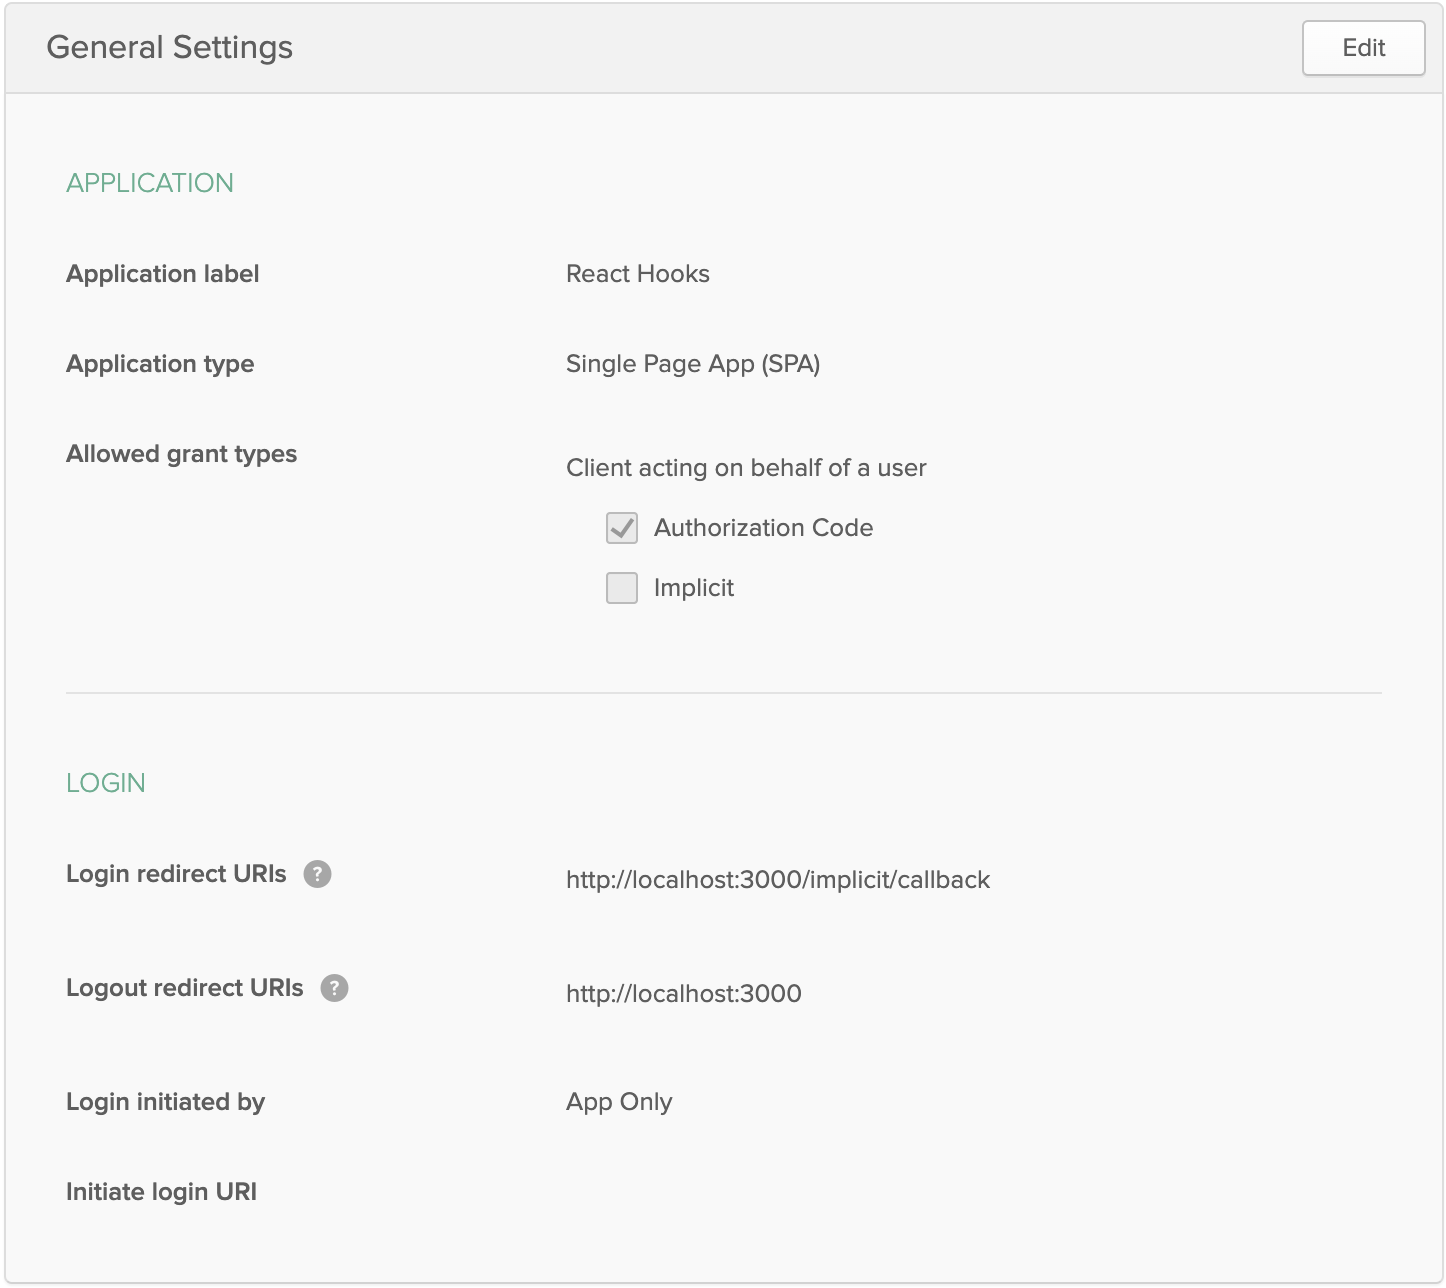
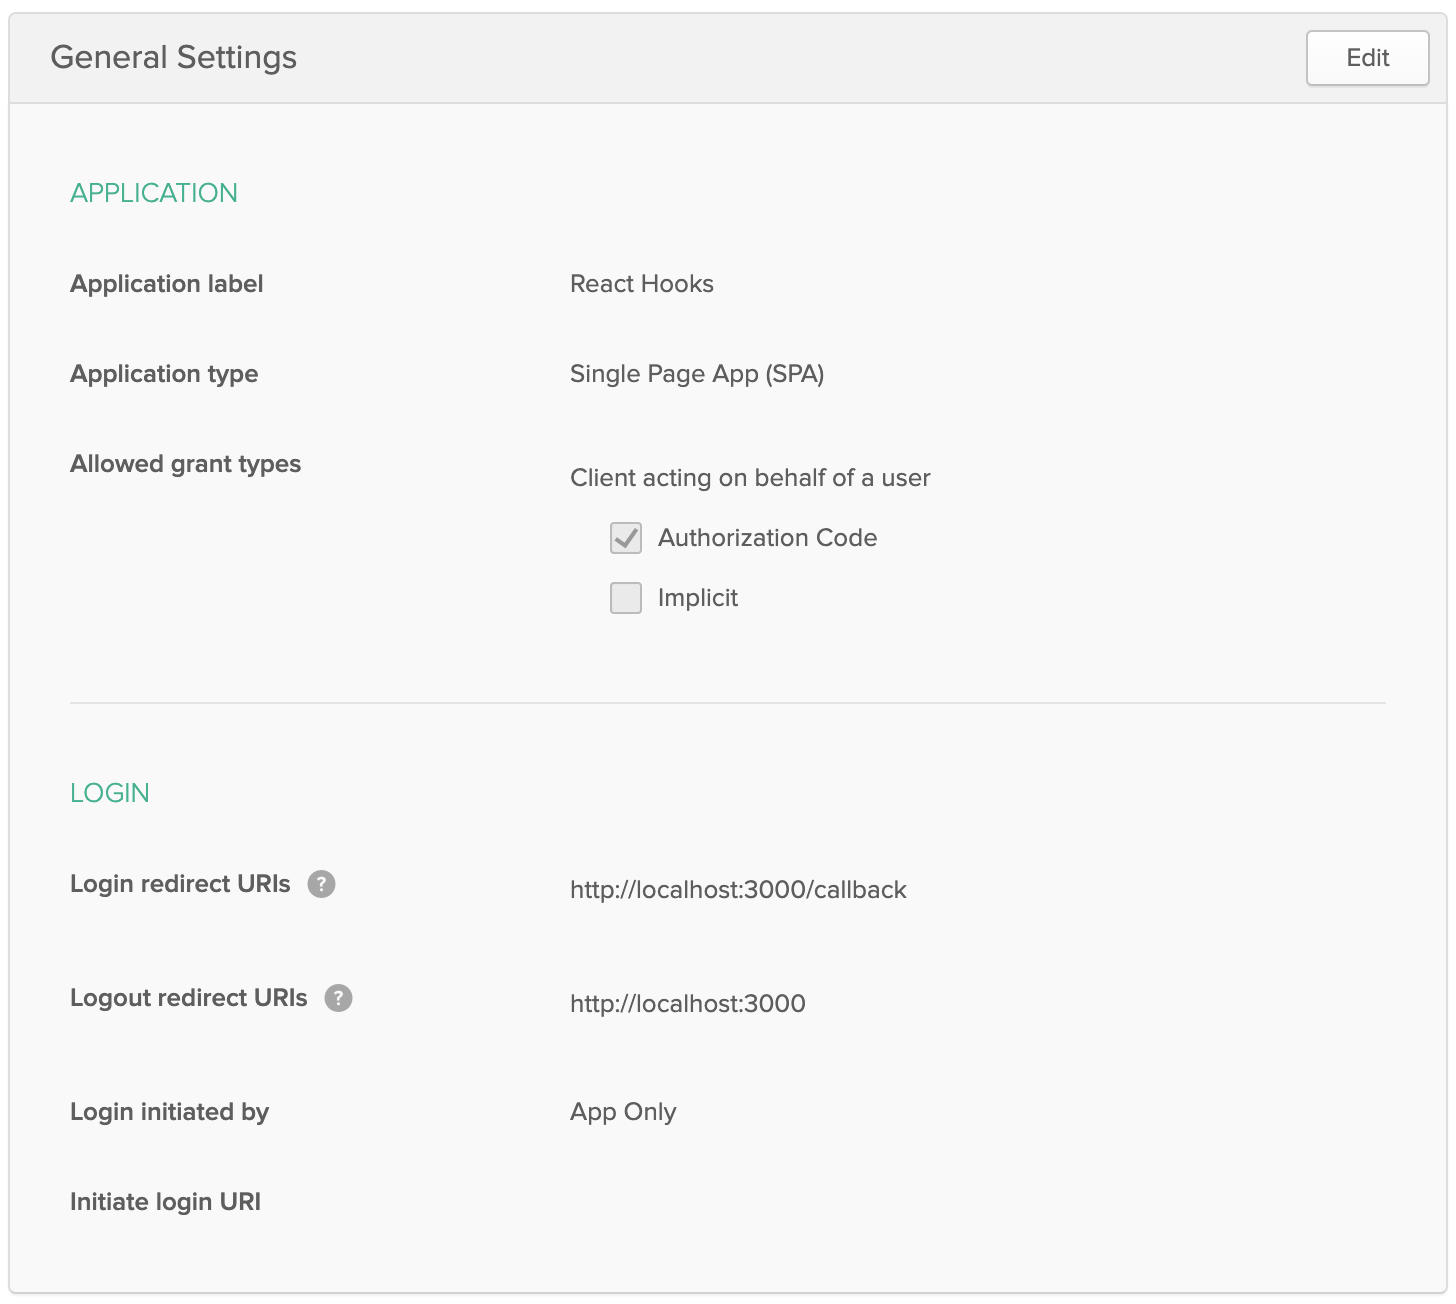
Upgrade to React SDK 3.0.1 and remove /implicit

diff --git a/_source/_posts/2020-05-01-move-from-higher-order-components-to-react-hooks.md b/_source/_posts/2020-05-01-move-from-higher-order-components-to-react-hooks.md
@@ -132,7 +132,7 @@ If you don't already have one, you'll need a free (forever) Okta developer accou
 
 Choose **Single-Page App** from the platform choices and click **Next**. Give your application a name and make sure to change all the URIs to use port 3000 instead of port 8080. Make sure **Authorization Code** is checked in the **Grant type allowed** section, then click **Done**. When the application is created, you'll be on the application settings page. Make sure to copy your **Client ID**, you'll need it in just a minute.
 
-{% img blog/hoc-hooks/okta-app-settings.png alt:"Okta App Settings" width:"800" %}{: .center-image }
+{% img blog/hoc-hooks/okta-app-settings.png alt:"Okta App Settings" width:"700" %}{: .center-image }
 
 Back in your code editor, add a new file in the `src` folder called `config.js` with the following contents:
 
@@ -141,7 +141,7 @@ export default {
   oidc: {
     clientId: '<yourClientID>',
     issuer: '<yourOktaOrgURL>/oauth2/default',
-    redirectUri: 'http://localhost:3000/implicit/callback',
+    redirectUri: 'http://localhost:3000/callback',
     scopes: ['openid', 'profile', 'email'],
     pkce: true
   }
@@ -236,7 +236,7 @@ function App() {
         <Route path="/" exact component={Home} />
         <Route path="/login" component={Login} />
         <SecureRoute path="/profile" exact component={Profile} />
-        <Route path="/implicit/callback" component={ImplicitCallback} />
+        <Route path="/callback" component={ImplicitCallback} />
       </Security>
     </Router>
   );
@@ -245,7 +245,7 @@ function App() {
 export default App;
 ```
 
-Here, you've added some components from the `@okta/okta-react` package to secure your application. The `Security` tag takes the `config.js` contents and spreads it into parameters. It also wires up the `customAuthHandler` (above the component) to handle what to do when there is a need for authentication (like when users try to navigate to a secured route with having logged in). The profile `Route` was changed to a `SecureRoute` component and a route for `/implicit/callback` has been added and is being handled by the `ImplicitCallback` component from the `okta-react` package.
+Here, you've added some components from the `@okta/okta-react` package to secure your application. The `Security` tag takes the `config.js` contents and spreads it into parameters. It also wires up the `customAuthHandler` (above the component) to handle what to do when there is a need for authentication (like when users try to navigate to a secured route with having logged in). The profile `Route` was changed to a `SecureRoute` component and a route for `/callback` has been added and is being handled by the `ImplicitCallback` component from the `okta-react` package.
 
 ## Compose Using Higher-Order Components
 
@@ -314,7 +314,6 @@ export default withAuth(class Profile extends Component {
 
 Here, you imported the `withAuth` HOC from the `okta-react` package and wrapped the `Profile` component. This gives you access to the `auth` prop so you can get things like the `isAuthenticated()` and `getUser()` functions. (I've separated some of the repeated code into a `checkAuthentication()` function to reduce code duplication inside the component.) This will check for an authenticated user and get that user's token information. Then it will get all the user's claims and add them to the state. Finally, in the `render()` function it maps the claims to an unordered list for display.
 
-
 This is all great, but if I need to add another HOC, things start to get a little messy. Particularly when it comes to opening and closing parentheses and curly braces. You could move the wrapping to the bottom with:
 
 ```js
@@ -328,7 +327,25 @@ That will clean up the punctuation, but removes the signal right at the top that
 To use React Hooks, there are only a few small things to change. First, update to the latest version of Okta's React SDK:
 
 ```sh
-npm install @okta/okta-react@2.0.0 --save
+npm install @okta/okta-react@3.0.1 --save
+```
+
+As part of this upgrade, you'll need to change `ImplicitCallback` to `LoginCallback` in your `src/App.js`.
+
+```jsx
+import { Security, SecureRoute, LoginCallback } from "@okta/okta-react";
+...
+
+function App() {
+  return (
+    <Router>
+      <Security {...config.oidc} onAuthRequired={customAuthHandler}>
+        ...
+        <Route path="/callback" component={LoginCallback} />
+      </Security>
+    </Router>
+  );
+}
 ```
 
 Now change the `profile.js` component to use the React Hooks version of the `withAuth` Higher-Order Component. Replace the code for the profile page with:
@@ -376,13 +393,15 @@ const Profile = () => {
 export default Profile;
 ```
 
-You can see, I've removed the `withAuth` HOC and replaced it with the `useOktaAuth` hook. I've also brought in the `useEffect` and `useState` hooks. The `useEffect` lets you act on side effects within your component and the `useState` allows you to use component state inside of a functional component (not a class component). You'll also notice I was able to remove the `checkAuthentication()` helper method. Using the React Hooks, there won't be the chunks of repeated code that made me break that function out.
+You can see, I've removed the `withAuth` HOC and replaced it with the `useOktaAuth()` hook. I've also brought in the `useEffect()` and `useState()` hooks. The `useEffect()` lets you act on side effects within your component and the `useState()` allows you to use component state inside of a functional component (not a class component). You'll also notice I was able to remove the `checkAuthentication()` helper method. Using the React Hooks, there won't be the chunks of repeated code that made me break that function out.
 
 The `useEffect()` call checks for authentication and updates the state with the user's claims. Then there's just a `return()` if the `userInfo` isn't there yet, and a `render()` when there IS user information to display. That's a LOT cleaner, don't you think?
 
 ## Learn More
 
-All this doesn't mean that Higher-Order Components aren't still useful or supported. There's no need to go rambling through a large, existing codebase to change all of your HOCs to React Hooks. But in places where you might be wrapping your React components in two, three, or more HOCs, you might start by refactoring those into React Hooks. 
+All this doesn't mean that Higher-Order Components aren't still useful or supported. There's no need to go rambling through a large, existing codebase to change all of your HOCs to React Hooks. But in places where you might be wrapping your React components in two, three, or more HOCs, you might start by refactoring those into React Hooks.
+
+You can find the source code for this example [on GitHub](https://github.com/oktadeveloper/okta-react-hooks-example).
 
 I find the useability and composability of React Hooks to be much more compelling than HOCs. What do you think?
 
@@ -394,3 +413,7 @@ If you want to learn more about React or Okta, check out these great posts!
 
 
 Also, don't forget to follow us on [Twitter](https://twitter.com/oktadev) and subscribe to our [YouTube](https://youtube.com/c/oktadev) channel for more great content!
+
+**Changelog:**
+
+* May 6, 2020: Updated to use the v3.0.1 version of the Okta React SDK and add a GitHub repo. Changes to this article can be viewed in [oktadeveloper/okta-blog#285](https://github.com/oktadeveloper/okta-blog/pull/285).
